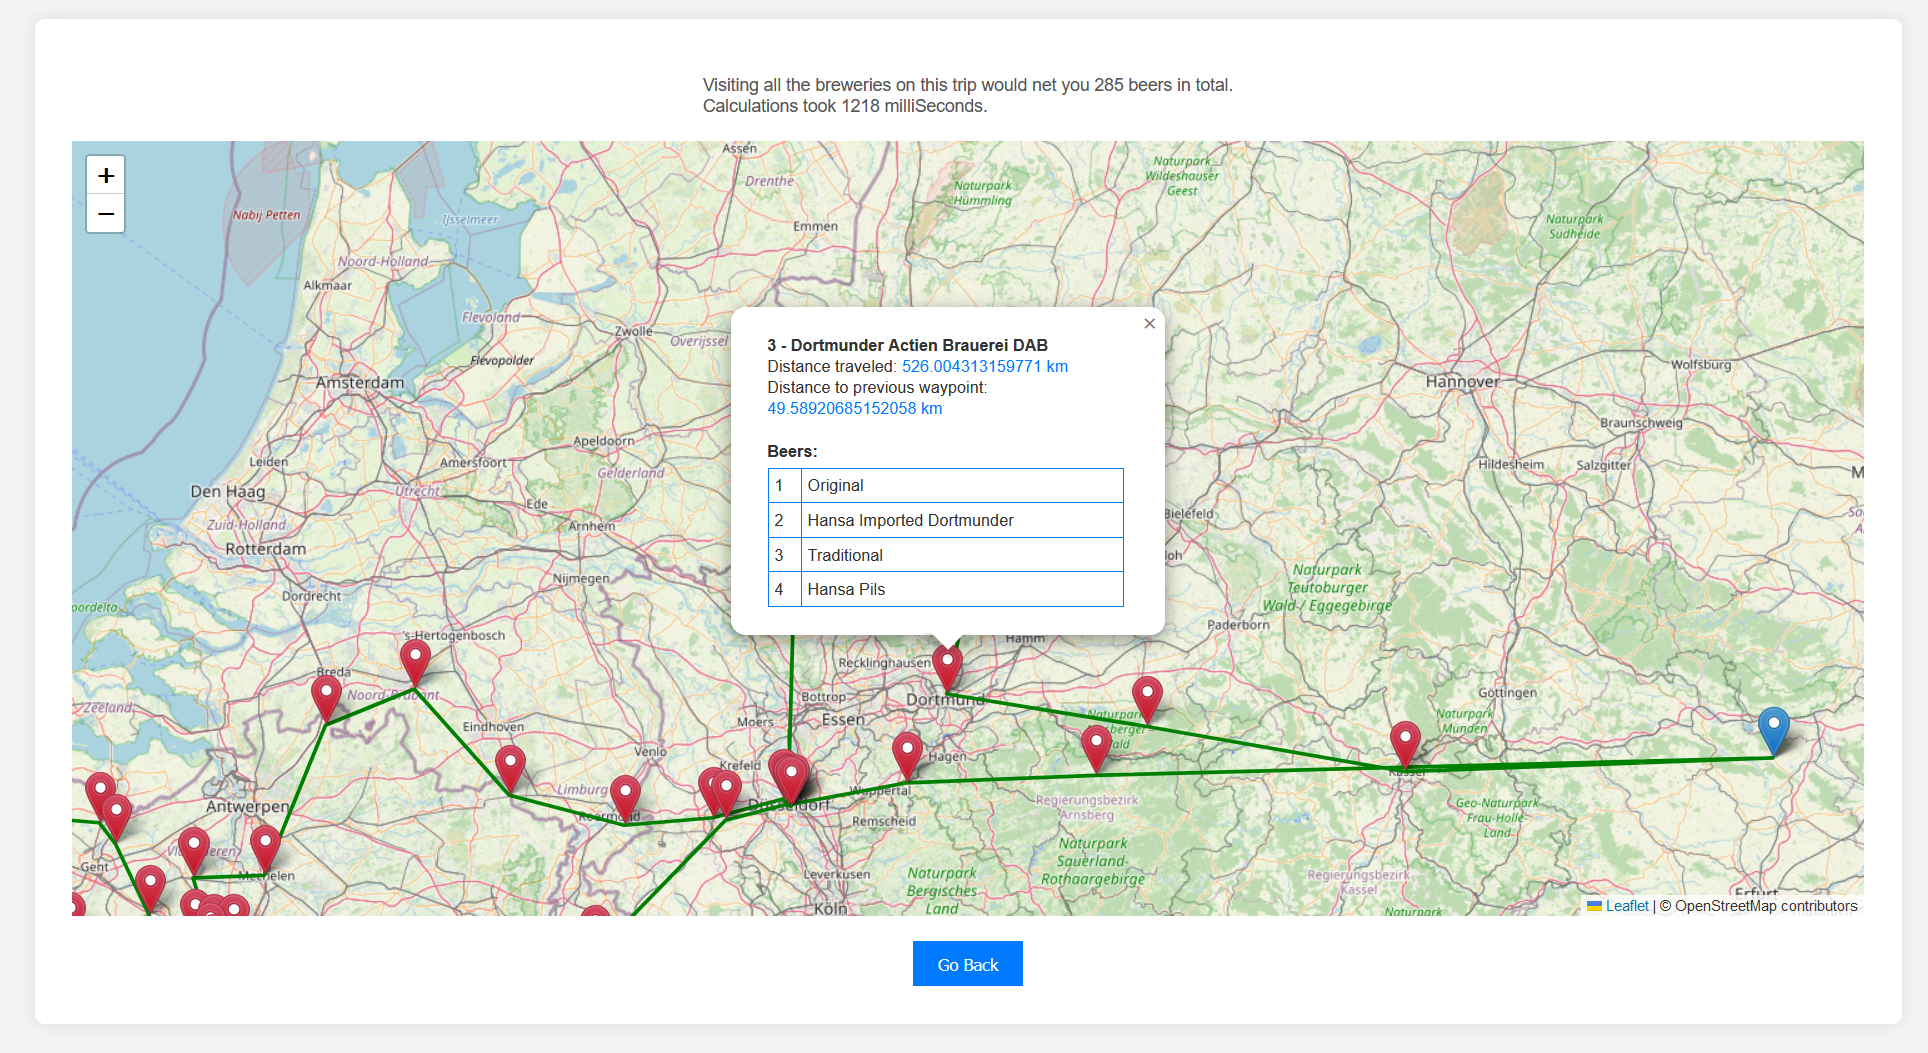
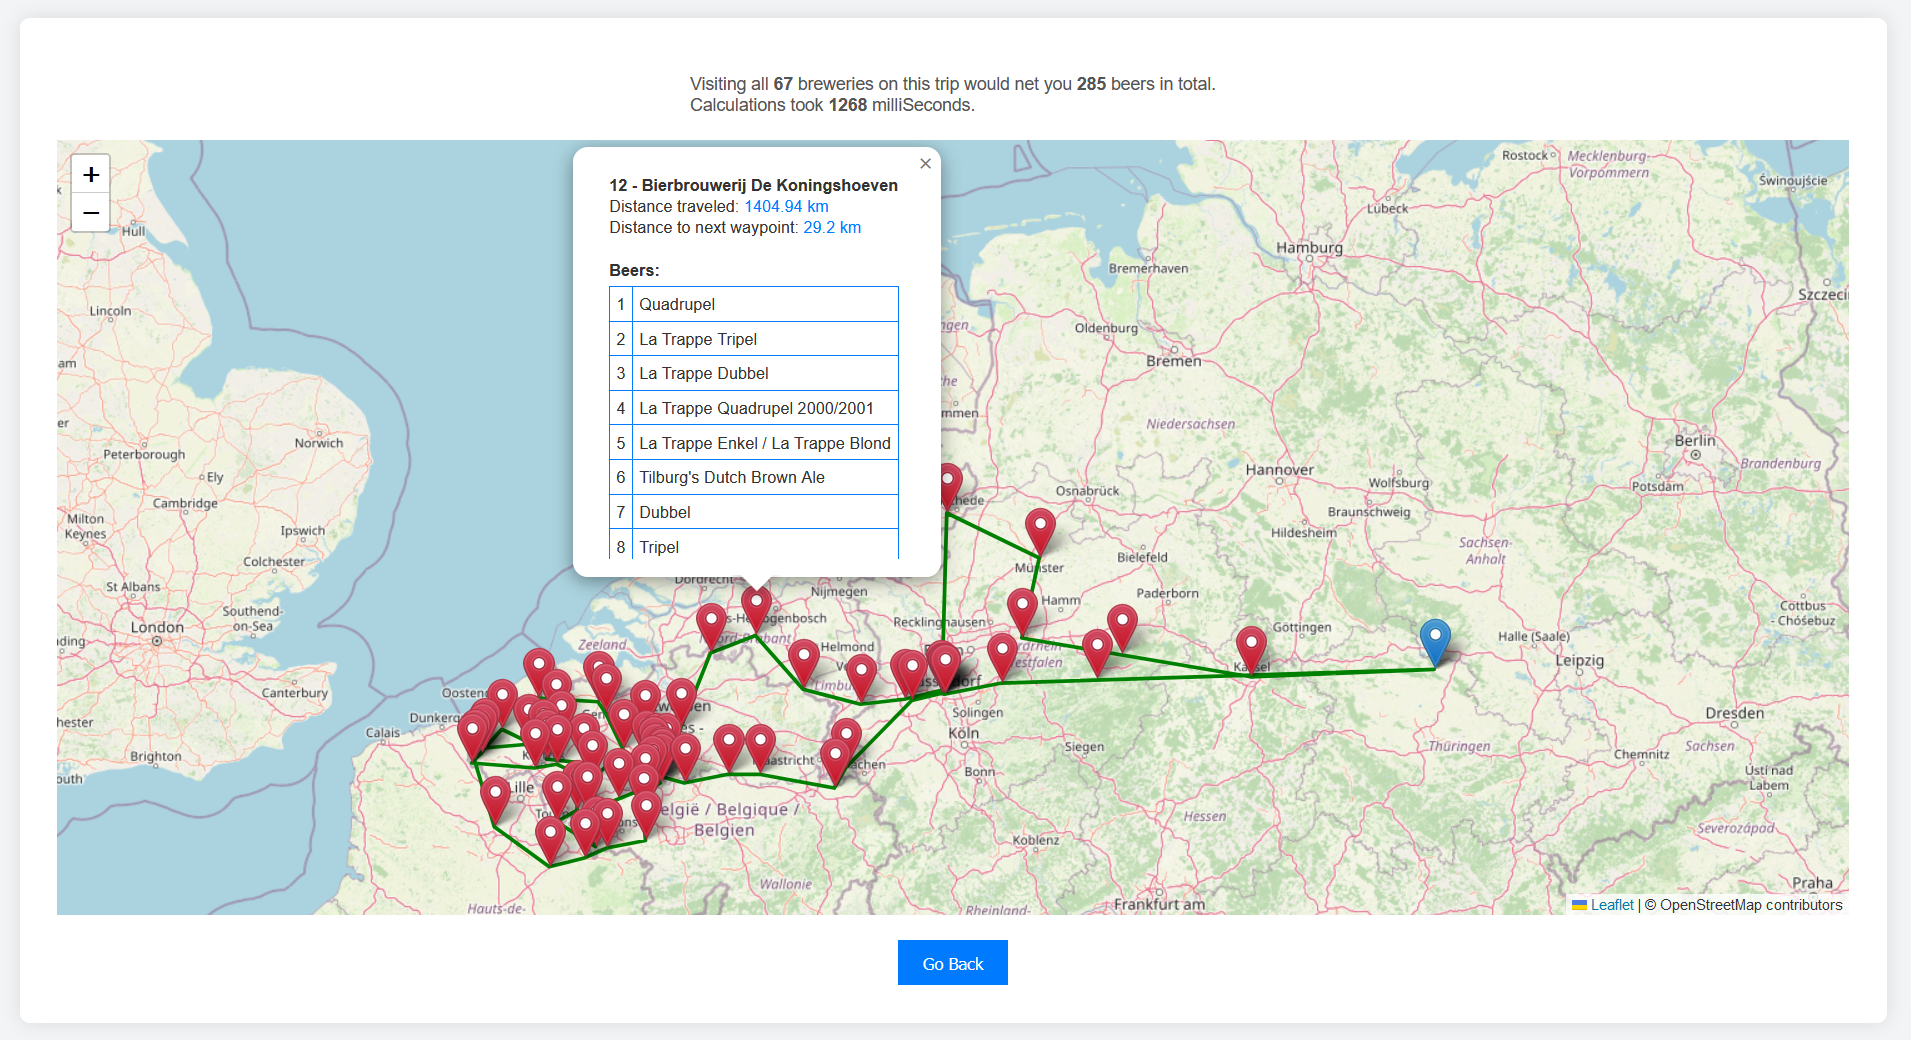
changed to show distance to next waypoint; added comments; updated results screenshot;

diff --git a/src/main/resources/static/js/map.js b/src/main/resources/static/js/map.js
@@ -1,3 +1,21 @@
+const homeIcon = new L.Icon({
+  iconUrl: 'https://raw.githubusercontent.com/pointhi/leaflet-color-markers/master/img/marker-icon-2x-blue.png',
+  shadowUrl: 'https://cdnjs.cloudflare.com/ajax/libs/leaflet/0.7.7/images/marker-shadow.png',
+  iconSize: [25, 41],
+  iconAnchor: [12, 41],
+  popupAnchor: [1, -34],
+  shadowSize: [41, 41]
+});
+
+const breweryIcon = new L.Icon({
+  iconUrl: 'https://raw.githubusercontent.com/pointhi/leaflet-color-markers/master/img/marker-icon-2x-red.png',
+  shadowUrl: 'https://cdnjs.cloudflare.com/ajax/libs/leaflet/0.7.7/images/marker-shadow.png',
+  iconSize: [25, 41],
+  iconAnchor: [12, 41],
+  popupAnchor: [1, -34],
+  shadowSize: [41, 41]
+});
+
 function createPopUp(waypoint, index) {
   if (index == 0) return;
   if (!waypoint.brewery) {
@@ -29,9 +47,9 @@ function createPopUp(waypoint, index) {
     <div style="max-height: 300px; overflow: scroll; font-family: Arial, sans-serif; padding: 8px;">
         <strong>${index} - ${waypoint.brewery.name}</strong>
         <br />
-        Distance traveled: <span style="color: #007BFF;">${waypoint.distanceTraveled} km</span>
+        Distance traveled: <span style="color: #007BFF;">${roundNumber(waypoint.distanceTraveled)} km</span>
         <br />
-        Distance to previous waypoint: <span style="color: #007BFF;">${waypoint.distanceToPreviousPoint} km</span>
+        Distance to next waypoint: <span style="color: #007BFF;">${roundNumber(waypoints[index + 1].distanceToPreviousPoint)} km</span>
         <br /><br />
         ${beers}
     </div>
@@ -40,32 +58,21 @@ function createPopUp(waypoint, index) {
   return popUp;
 }
 
-const homeIcon = new L.Icon({
-  iconUrl: 'https://raw.githubusercontent.com/pointhi/leaflet-color-markers/master/img/marker-icon-2x-blue.png',
-  shadowUrl: 'https://cdnjs.cloudflare.com/ajax/libs/leaflet/0.7.7/images/marker-shadow.png',
-  iconSize: [25, 41],
-  iconAnchor: [12, 41],
-  popupAnchor: [1, -34],
-  shadowSize: [41, 41]
-});
+const roundNumber = (num) => {
+  return Math.round(num * 100) / 100;
+}
 
-const breweryIcon = new L.Icon({
-  iconUrl: 'https://raw.githubusercontent.com/pointhi/leaflet-color-markers/master/img/marker-icon-2x-red.png',
-  shadowUrl: 'https://cdnjs.cloudflare.com/ajax/libs/leaflet/0.7.7/images/marker-shadow.png',
-  iconSize: [25, 41],
-  iconAnchor: [12, 41],
-  popupAnchor: [1, -34],
-  shadowSize: [41, 41]
-});
-
+// init map object
 const map = L.map('map').setView([51.505, -0.09], 13);
 
+// add map layer
 L.tileLayer('https://{s}.tile.openstreetmap.org/{z}/{x}/{y}.png', {
   attribution: '© OpenStreetMap contributors'
 }).addTo(map);
 
 const latlngs = [];
 
+// create points and popups
 for (var idx = 0; idx < waypoints.length; idx++) {
   if (waypoints[idx].lat && waypoints[idx].lon) {
     latlngs.push([waypoints[idx].lat, waypoints[idx].lon]);
@@ -78,6 +85,8 @@ for (var idx = 0; idx < waypoints.length; idx++) {
   }
 }
 
+// create line
 const polyline = L.polyline(latlngs, {color: 'green'}).addTo(map);
 
+// focous map to fit line
 map.fitBounds(polyline.getBounds());
